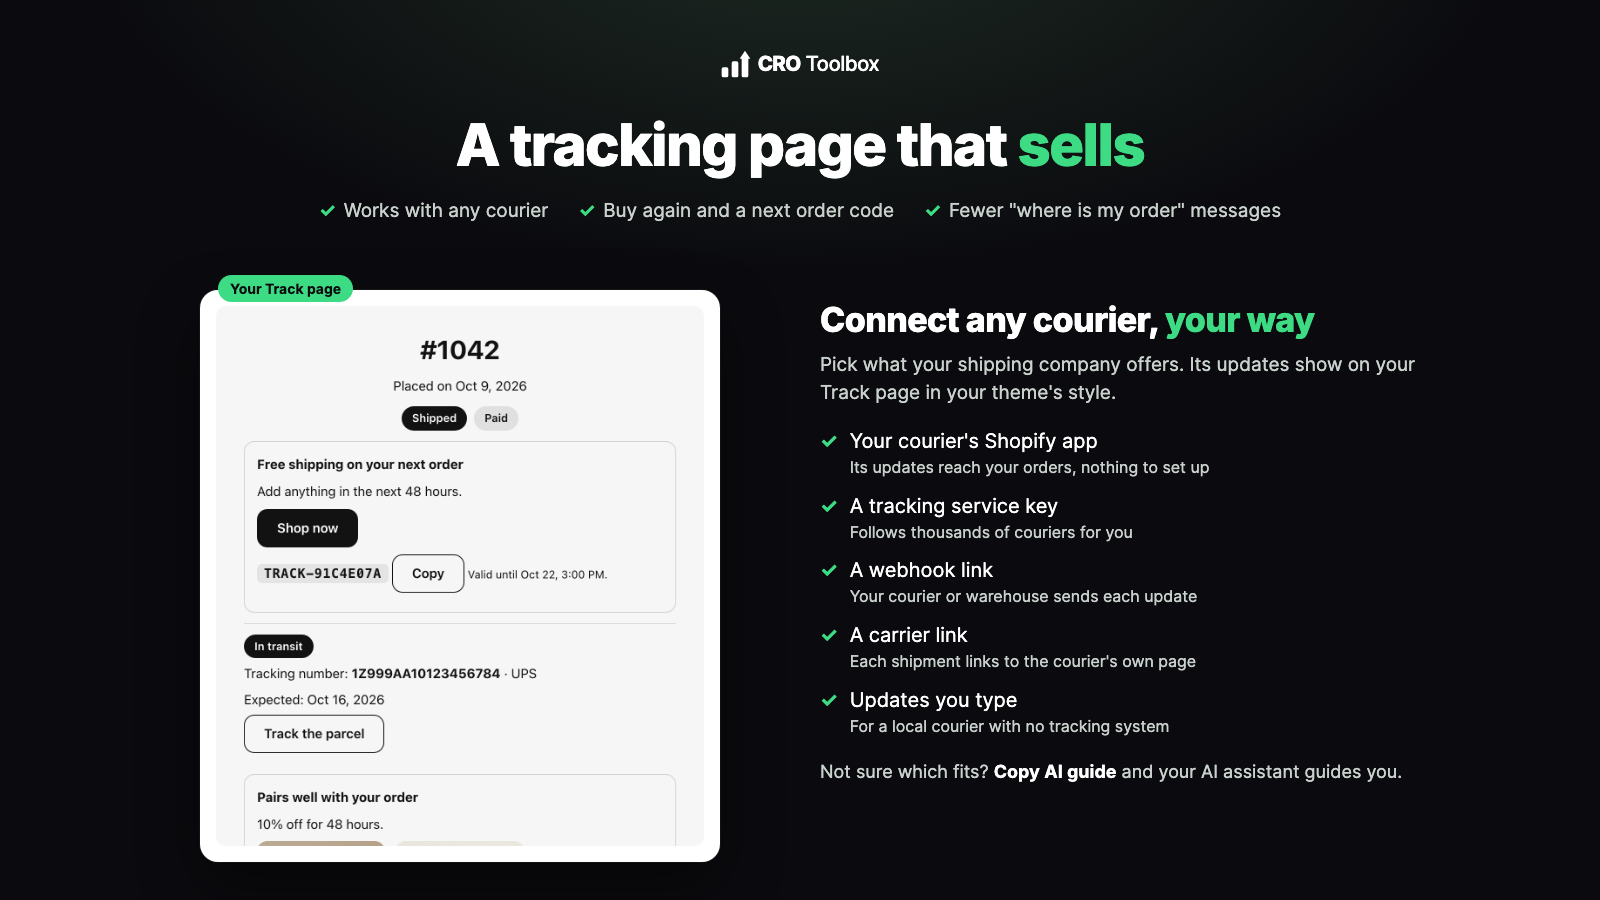
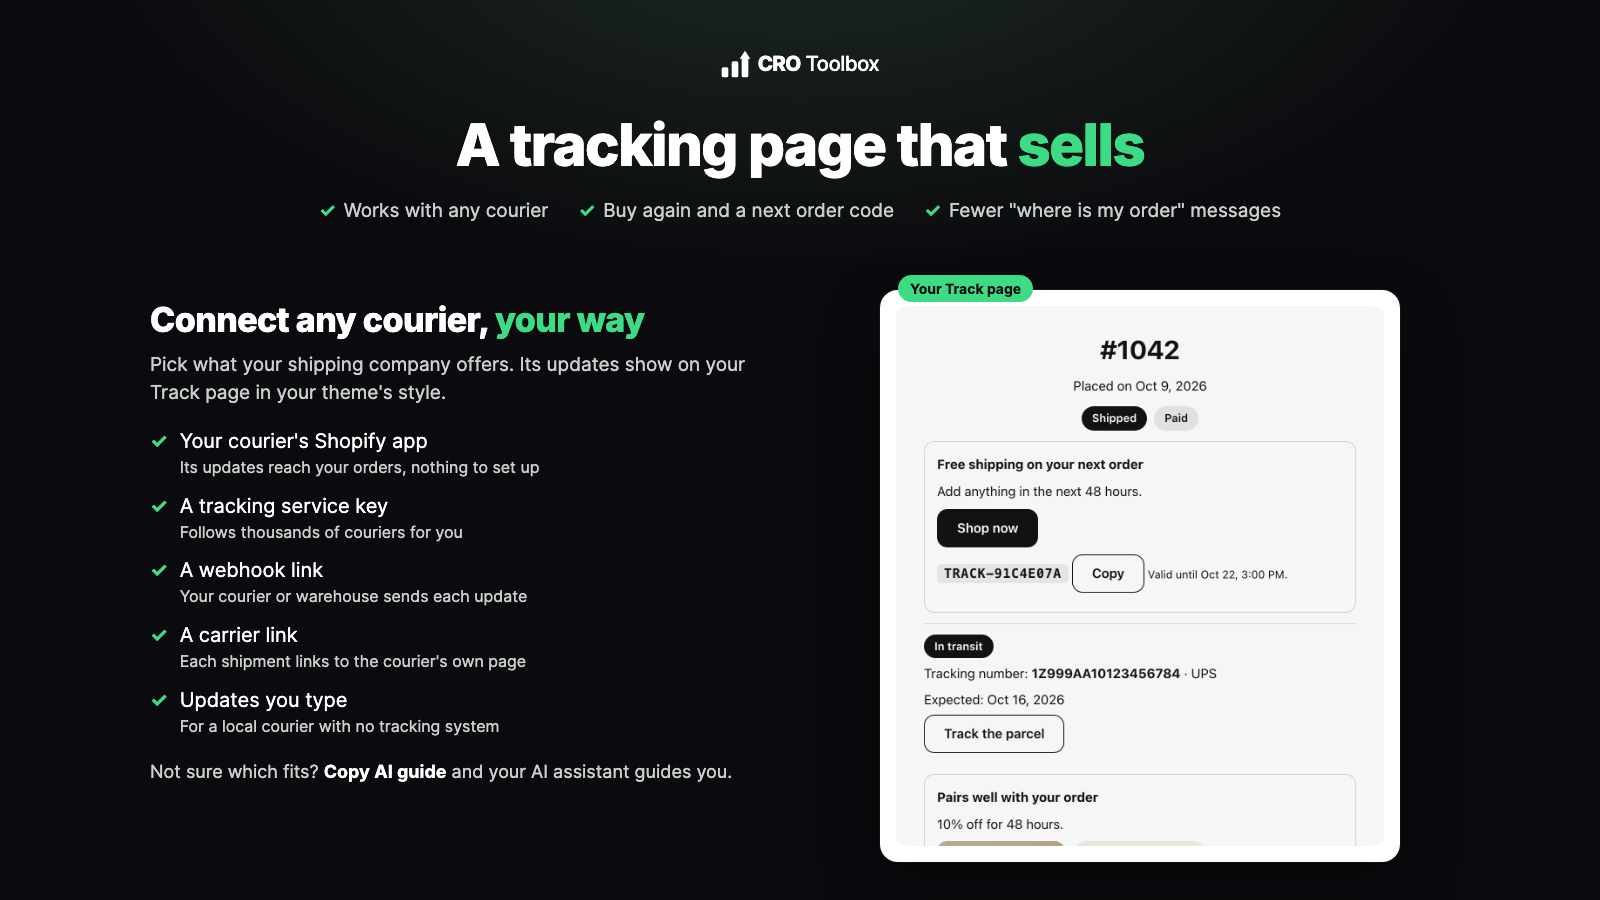
Listing shots 2, 4, 5: text on the left, the real widget card on the right

diff --git a/branding/listing/templates/shot-4-tracking.html b/branding/listing/templates/shot-4-tracking.html
@@ -1,27 +1,13 @@
 <!doctype html>
-<!-- Listing screenshot 4 (centred top layout): the real Track page card, and the ways to connect any courier as text.
-     Render: scripts/listing/render.sh shot-4-tracking -->
-<html><head><meta charset="utf-8"><link rel="stylesheet" href="../styles.css">
-<style>
-  .ways { position: absolute; left: 820px; top: 300px; width: 600px; }
-  .ways h2 { font-size: 34px; font-weight: 800; letter-spacing: -.6px; line-height: 1.15; }
-  .ways h2 span { color: var(--green); }
-  .ways p { font-size: 19px; line-height: 1.45; color: var(--muted); margin-top: 12px; }
-  .ways ul { list-style: none; padding: 0; margin-top: 22px; display: flex; flex-direction: column; gap: 14px; }
-  .ways li { display: flex; gap: 12px; font-size: 20px; line-height: 1.35; color: #fff; }
-  .ways li b { color: var(--green); }
-  .ways li small { display: block; font-size: 16px; color: var(--muted); margin-top: 2px; }
-  .ways .ai { margin-top: 24px; font-size: 18px; color: var(--muted); }
-  .ways .ai strong { color: #fff; }
-</style></head>
+<!-- Listing screenshot 4: the ways to connect any courier and the real Track page. Text left, card right (styles.css .about). Render: scripts/listing/render.sh <name> -->
+<html><head><meta charset="utf-8"><link rel="stylesheet" href="../styles.css"></head>
 <body>
   <div class="top">
     <img class="logo" src="../logo.svg" alt="">
     <h1>A tracking page that <span>sells</span></h1>
     <div class="checks"><div><b>✓</b>Works with any courier</div><div><b>✓</b>Buy again and a next order code</div><div><b>✓</b>Fewer "where is my order" messages</div></div>
   </div>
-  <div class="card" style="left:200px; top:290px; width:520px"><span class="tag">Your Track page</span><img src="../widgets/track.png" style="height:540px;object-fit:cover;object-position:top"></div>
-  <div class="ways">
+  <div class="about">
     <h2>Connect any courier, <span>your way</span></h2>
     <p>Pick what your shipping company offers. Its updates show on your Track page in your theme's style.</p>
     <ul>
@@ -31,6 +17,7 @@
       <li><b>✓</b><div>A carrier link<small>Each shipment links to the courier's own page</small></div></li>
       <li><b>✓</b><div>Updates you type<small>For a local courier with no tracking system</small></div></li>
     </ul>
-    <div class="ai">Not sure which fits? <strong>Copy AI guide</strong> and your AI assistant guides you.</div>
+    <div class="note">Not sure which fits? <strong>Copy AI guide</strong> and your AI assistant guides you.</div>
   </div>
+  <div class="card" style="left:880px; top:290px; width:520px"><span class="tag">Your Track page</span><img src="../widgets/track.png" style="height:540px;object-fit:cover;object-position:top"></div>
 </body></html>

diff --git a/branding/listing/templates/shot-5-returns.html b/branding/listing/templates/shot-5-returns.html
@@ -1,5 +1,5 @@
 <!doctype html>
-<!-- Listing screenshot 5 (centred top layout, like feature.html). Render: scripts/listing/render.sh shot-5-returns -->
+<!-- Listing screenshot 5: returns that keep the sale, and the real Returns page. Text left, card right (styles.css .about). Render: scripts/listing/render.sh <name> -->
 <html><head><meta charset="utf-8"><link rel="stylesheet" href="../styles.css"></head>
 <body>
   <div class="top">
@@ -7,6 +7,16 @@
     <h1>Returns that keep the <span>sale</span></h1>
     <div class="checks"><div><b>✓</b>Store credit with a bonus first</div><div><b>✓</b>Exchanges before refunds</div><div><b>✓</b>Approve and refund in the app</div></div>
   </div>
-</body></html>
-  <div class="card" style="left:530px; top:290px; width:540px"><span class="tag">Returns page</span><img src="../widgets/returns.png" style="height:540px;object-fit:cover;object-position:bottom"></div>
+  <div class="about">
+    <h2>Keep the money <span>in your store</span></h2>
+    <p>Shoppers start a return on your Returns page and see the choices that keep the sale first.</p>
+    <ul>
+      <li><b>✓</b><div>Store credit with a bonus<small>An extra on top makes credit the easy choice</small></div></li>
+      <li><b>✓</b><div>Exchanges<small>Another size or colour instead of a refund</small></div></li>
+      <li><b>✓</b><div>Refund to the original payment<small>Always there when the shopper wants it</small></div></li>
+      <li><b>✓</b><div>Approve by rule<small>Reason, product, order value or days since delivery</small></div></li>
+      <li><b>✓</b><div>Real Shopify returns<small>Labels, refunds and restocking from the app</small></div></li>
+    </ul>
+  </div>
+  <div class="card" style="left:880px; top:290px; width:520px"><span class="tag">Returns page</span><img src="../widgets/returns.png" style="height:540px;object-fit:cover;object-position:bottom"></div>
 </body></html>

diff --git a/branding/listing/templates/shot-2-loyalty.html b/branding/listing/templates/shot-2-loyalty.html
@@ -1,5 +1,5 @@
 <!doctype html>
-<!-- Listing screenshot 2 (centred top layout, like feature.html). Render: scripts/listing/render.sh shot-2-loyalty -->
+<!-- Listing screenshot 2: a loyalty program, and the real Rewards panel. Text left, card right (styles.css .about). Render: scripts/listing/render.sh <name> -->
 <html><head><meta charset="utf-8"><link rel="stylesheet" href="../styles.css"></head>
 <body>
   <div class="top">
@@ -7,5 +7,16 @@
     <h1>Rewards that bring shoppers <span>back</span></h1>
     <div class="checks"><div><b>✓</b>Points for every order</div><div><b>✓</b>Rewards, VIP tiers and referrals</div><div><b>✓</b>A points shop</div></div>
   </div>
-  <div class="card" style="left:610px; top:300px; width:380px"><span class="tag">Rewards panel</span><img src="../widgets/loyalty.png"></div>
+  <div class="about">
+    <h2>A loyalty program <span>in your theme</span></h2>
+    <p>A Rewards button on every page opens the panel. Points and rewards are real Shopify discounts.</p>
+    <ul>
+      <li><b>✓</b><div>Points for orders and actions<small>Sign ups, reviews, birthdays and follows</small></div></li>
+      <li><b>✓</b><div>Rewards<small>Discounts, free shipping and products</small></div></li>
+      <li><b>✓</b><div>VIP tiers<small>Bigger rewards for your best customers</small></div></li>
+      <li><b>✓</b><div>Referrals<small>A friend gets a discount, the member gets points</small></div></li>
+      <li><b>✓</b><div>A points shop<small>Products shoppers buy with points</small></div></li>
+    </ul>
+  </div>
+  <div class="card" style="left:960px; top:300px; width:380px"><span class="tag">Rewards panel</span><img src="../widgets/loyalty.png"></div>
 </body></html>

diff --git a/branding/listing/styles.css b/branding/listing/styles.css
@@ -49,3 +49,15 @@ h1 span { color: var(--green); }
 .side h1 { font-size: 52px; margin-top: 28px; }
 .side p { font-size: 22px; line-height: 1.45; color: var(--muted); margin-top: 22px; }
 .side .checks { flex-direction: column; gap: 12px; justify-content: flex-start; margin-top: 28px; font-size: 20px; }
+
+/* Text left, card right (under the centred top block): shots 2, 4 and 5 (Omar, 2026-10-29) */
+.about { position: absolute; left: 150px; top: 300px; width: 640px; }
+.about h2 { font-size: 34px; font-weight: 800; letter-spacing: -.6px; line-height: 1.15; }
+.about h2 span { color: var(--green); }
+.about p { font-size: 19px; line-height: 1.45; color: var(--muted); margin-top: 12px; }
+.about ul { list-style: none; padding: 0; margin-top: 22px; display: flex; flex-direction: column; gap: 14px; }
+.about li { display: flex; gap: 12px; font-size: 20px; line-height: 1.35; color: #fff; }
+.about li b { color: var(--green); }
+.about li small { display: block; font-size: 16px; color: var(--muted); margin-top: 2px; }
+.about .note { margin-top: 24px; font-size: 18px; color: var(--muted); }
+.about .note strong { color: #fff; }
